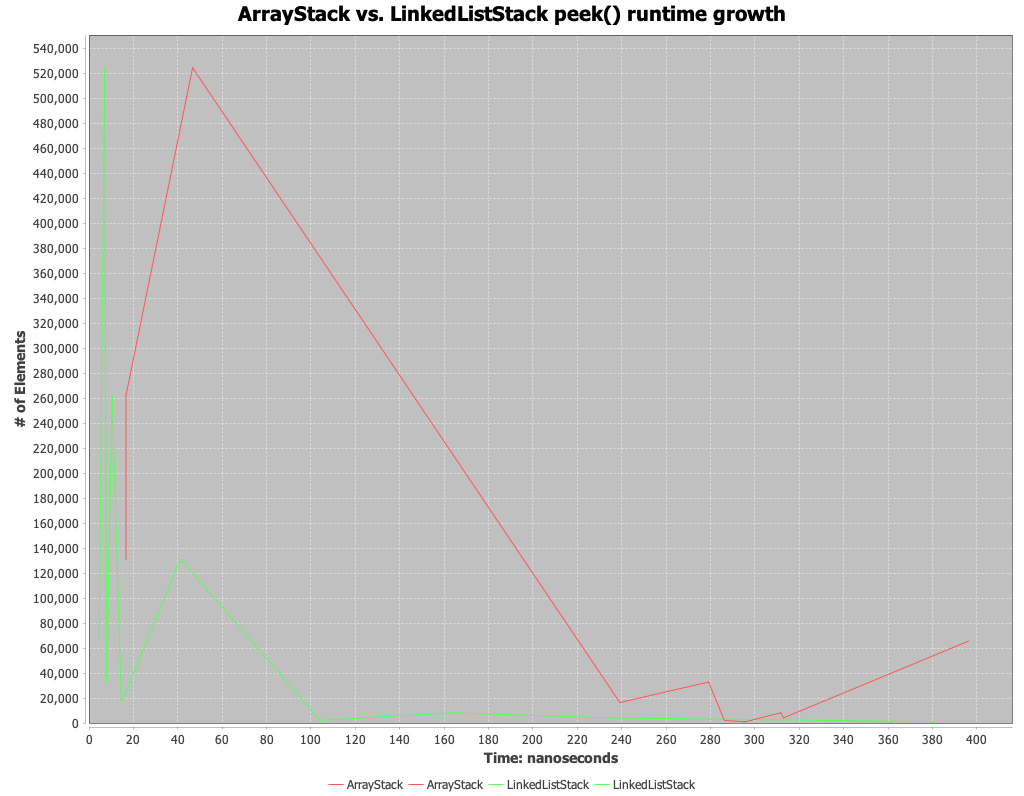
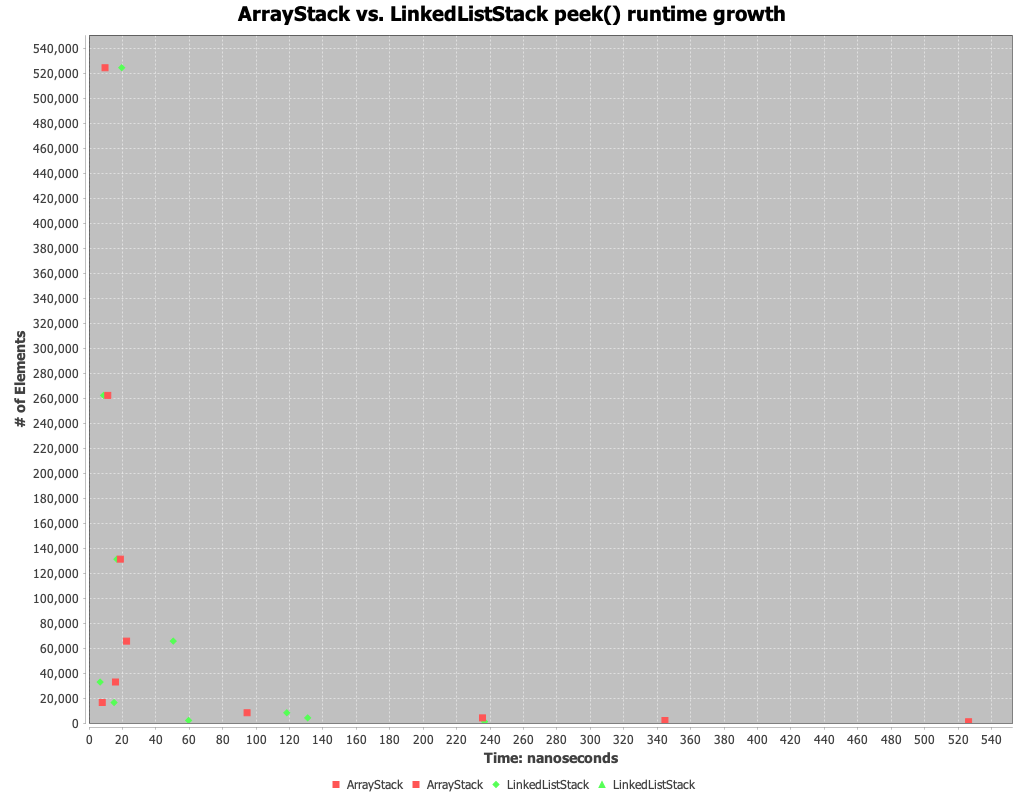
Consolidated timers into one and updated graphs.

diff --git a/CS6012/Week2/Day3/Assignment5/src/assignment05/StackTimingExperiment.java b/CS6012/Week2/Day3/Assignment5/src/assignment05/StackTimingExperiment.java
@@ -42,15 +42,40 @@ public class StackTimingExperiment extends TimerTemplate {
 
     @Override
     protected void timingIteration(int n) {
-        System.out.println("IMPLEMENT TIMING EXPERIMENT");
+        if (classUndertest.equals("ArrayStack")) {
+            if (methodUndertest.equals("pop")) {
+                arrayStack.pop();
+            } else if (methodUndertest.equals("push")) {
+                arrayStack.push(n);
+            } else {
+                arrayStack.peek();
+            }
+        } else {
+            if (methodUndertest.equals("pop")) {
+                linkedStack.pop();
+            } else if (methodUndertest.equals("push")) {
+                linkedStack.push(n);
+            } else {
+                linkedStack.peek();
+            }
+        }
     }
 
     @Override
     protected void compensationIteration(int n) {
-        System.out.println("IMPLEMENT TIMING EXPERIMENT");
-    }
+        if (classUndertest.equals("ArrayStack")) {
+            if (methodUndertest.equals("pop")) {
+            } else if (methodUndertest.equals("push")) {
+            } else {
+            }
+        } else {
+            if (methodUndertest.equals("pop")) {
+            } else if (methodUndertest.equals("push")) {
+            } else {
+            }
+        }    }
 
-    protected static class ExperimentResult{
+    protected static class ExperimentResult {
         public Result[] results;
         public String stackType;
 
@@ -71,7 +96,7 @@ public class StackTimingExperiment extends TimerTemplate {
             dataset.addSeries(series);
         }
 
-        JFreeChart chart = ChartFactory.createXYLineChart(
+        JFreeChart chart = ChartFactory.createScatterPlot(
                 "ArrayStack vs. LinkedListStack " + methodUndertest + "() runtime growth", "Time: nanoseconds", "# of Elements", dataset
         );
 
@@ -89,7 +114,7 @@ public class StackTimingExperiment extends TimerTemplate {
         }
     }
 
-    public static void runTest(int[] problemSizes, String method){
+    public static void runTest(int[] problemSizes, String method) {
         ArrayList<ExperimentResult> results_ = new ArrayList<>();
         for (String classToTest : Arrays.asList("ArrayStack", "LinkedListStack")) {
             StackTimingExperiment.classUndertest = classToTest;
@@ -110,5 +135,12 @@ public class StackTimingExperiment extends TimerTemplate {
             problemSizes[i] = (int) Math.pow(2, i + 10);
         }
         return problemSizes;
+    }
+
+    public static void main(String[] args) {
+        var problemSizes = generateProblemSizes();
+        runTest(problemSizes, "pop");
+        runTest(problemSizes, "push");
+        runTest(problemSizes, "peek");
     }
 }
